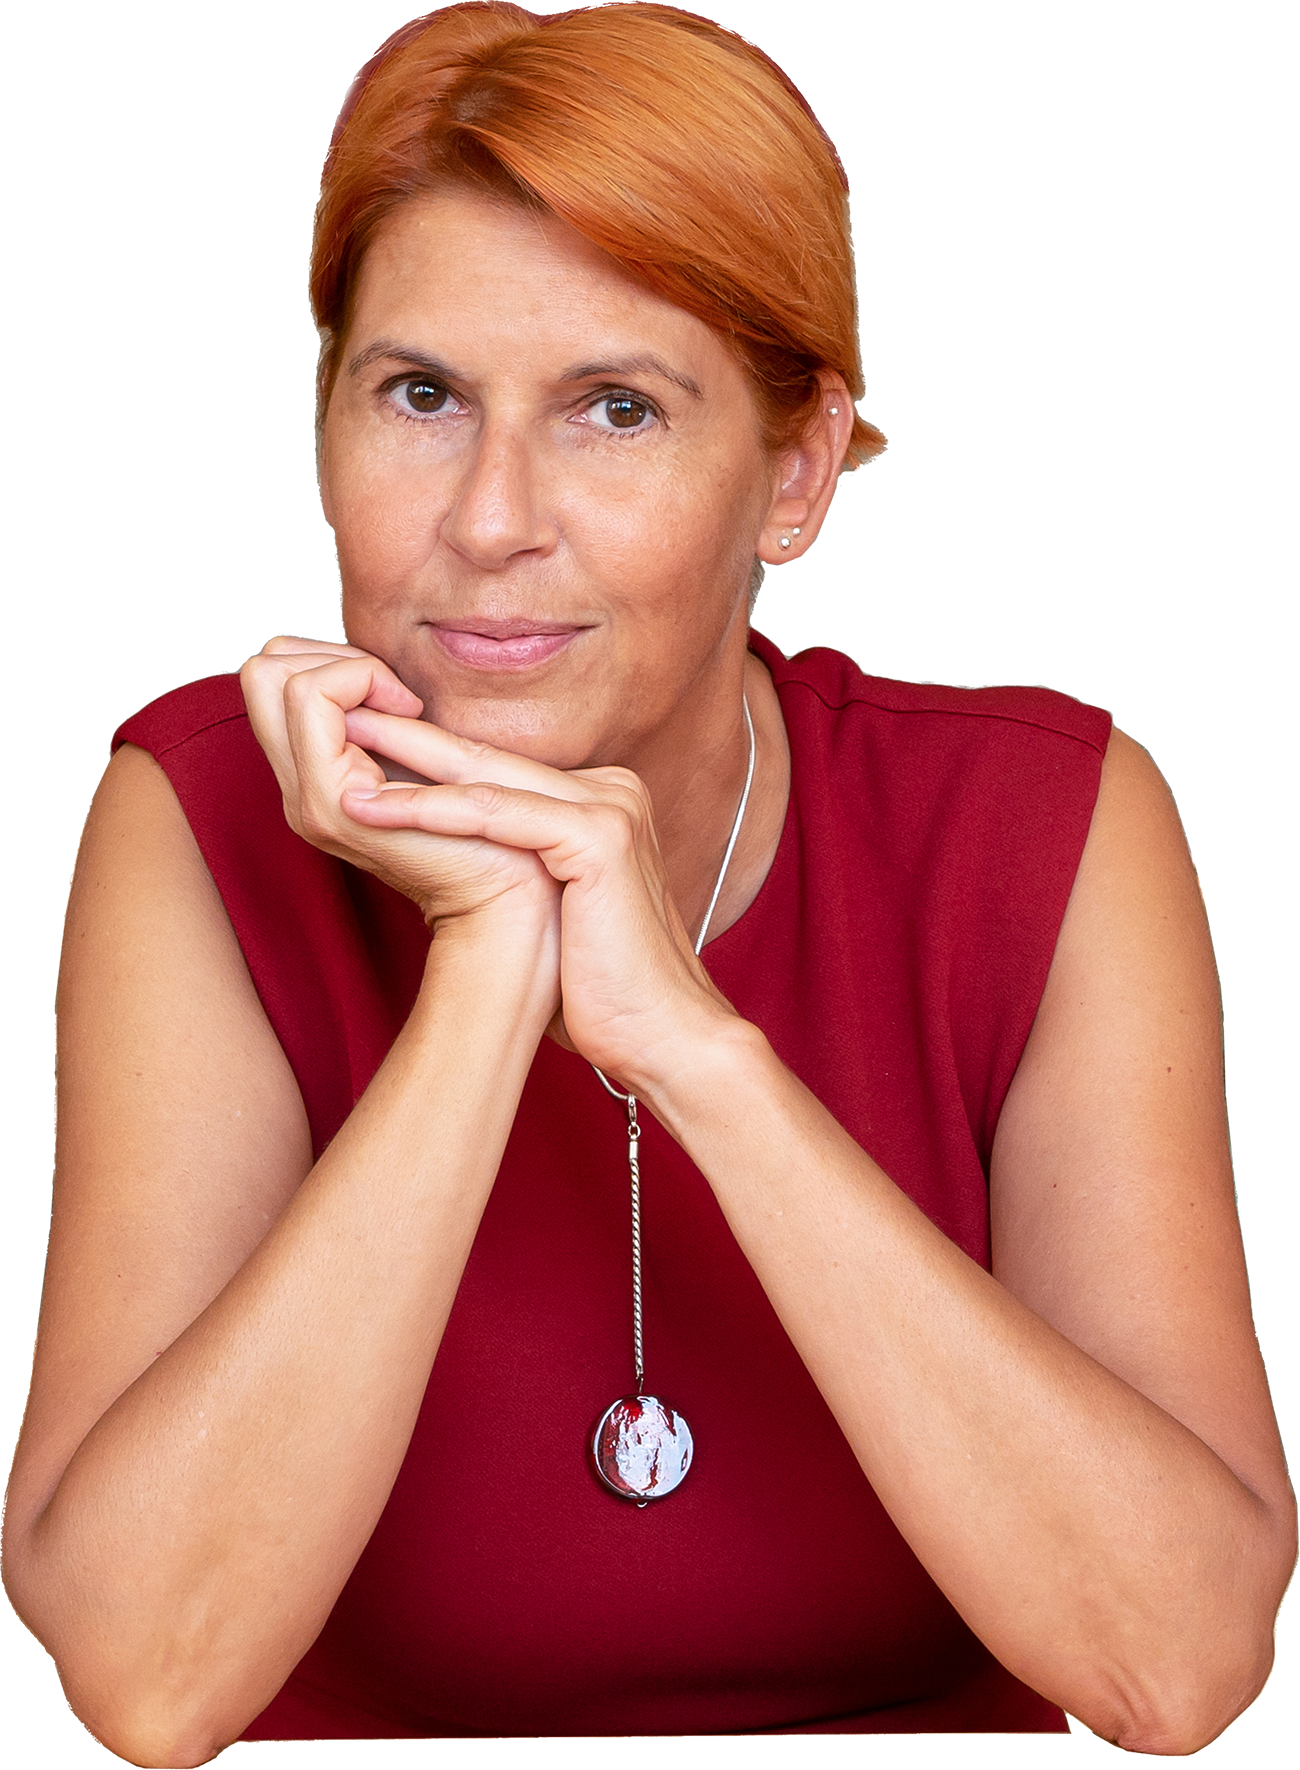
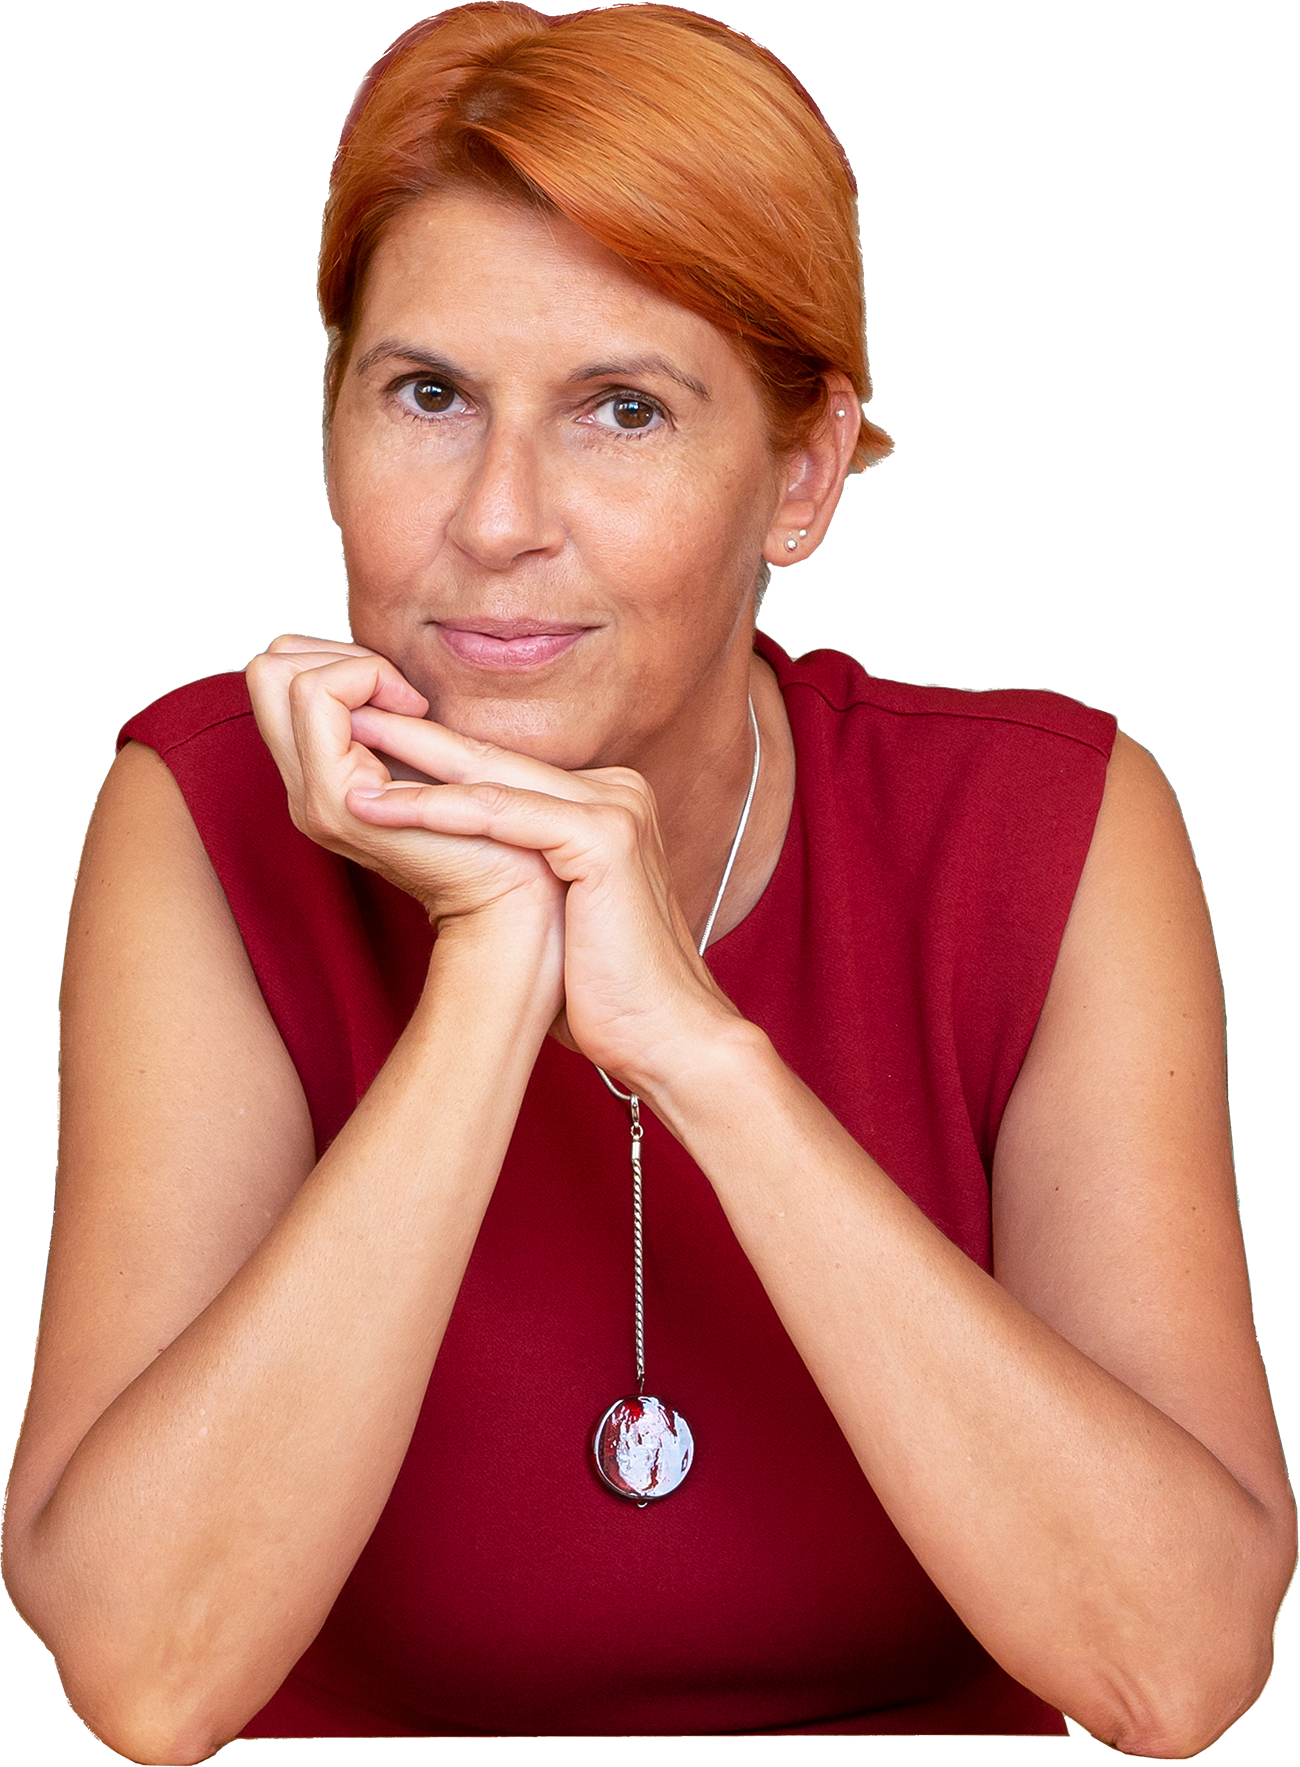
nyitooldal portre alatti vonal

diff --git a/css/indexpage/index.scss b/css/indexpage/index.scss
@@ -14,8 +14,15 @@ div.first {
         margin-left: -700px;
         img {
             width: 225px;
-            margin-bottom: -10px;
-            border-bottom: 3px solid var(--pale-red);
+            margin-bottom: -6px;
+            margin-right: 10px;
+            position: relative;
+            z-index: 1;
+        }
+        .line {
+            width: 250px;
+            border-bottom: 4px solid var(--pale-red);
+            border-radius: 2px;
         }
         p {
             font-size: 15px;

diff --git a/css/indexpage/index.css b/css/indexpage/index.css
@@ -30,8 +30,16 @@ div.first div.right {
 
 div.first div.right img {
   width: 225px;
-  margin-bottom: -10px;
-  border-bottom: 3px solid var(--pale-red);
+  margin-bottom: -6px;
+  margin-right: 10px;
+  position: relative;
+  z-index: 1;
+}
+
+div.first div.right .line {
+  width: 250px;
+  border-bottom: 4px solid var(--pale-red);
+  border-radius: 2px;
 }
 
 div.first div.right p {

diff --git a/index.php b/index.php
@@ -22,6 +22,7 @@
                 <img src="resources/ceruza.png" alt="szofelho" class="ceruza">
                 <div class="right">
                     <img src="resources/nyito_portre.png" alt="judit" class="judit">
+                    <div class="line"></div>
                     <p>
                         Szeretne többet tudni önmagáról? <br>
                         Szeretné jobban megismerni a párját?<br>
